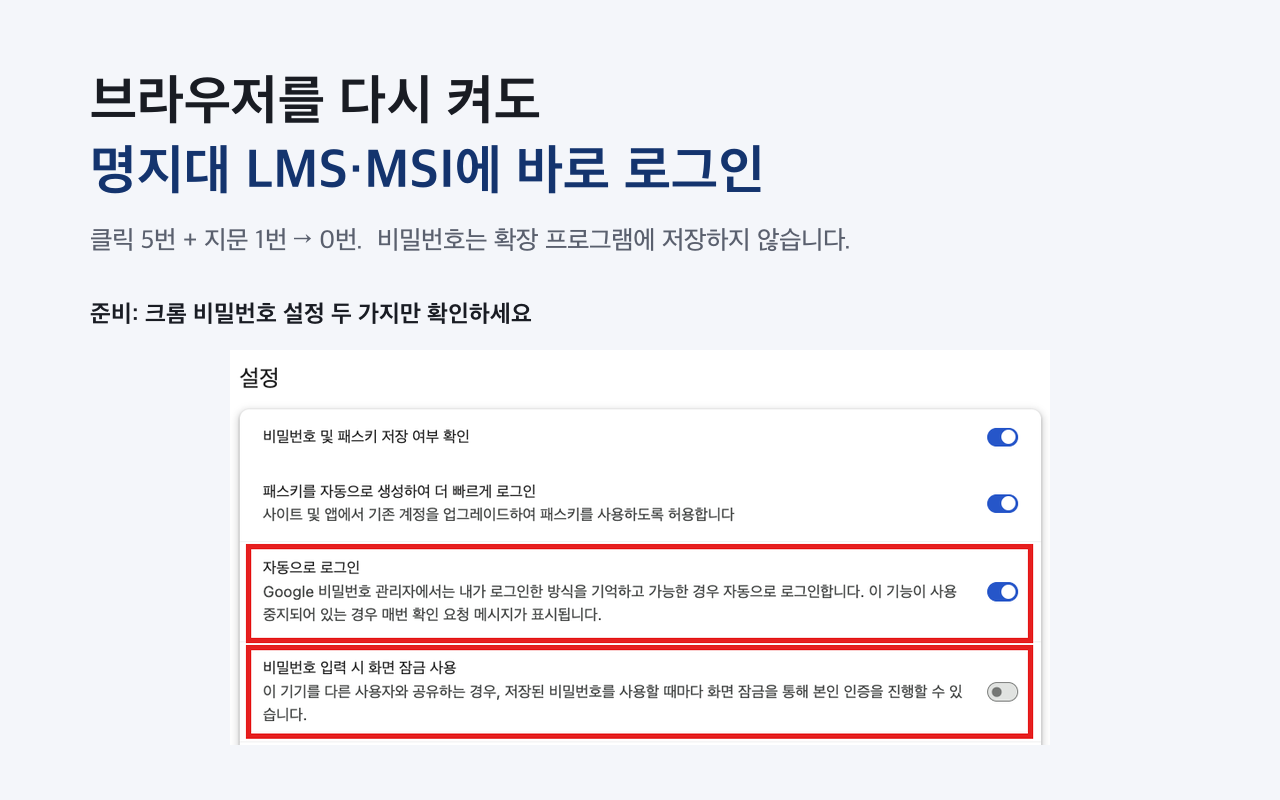
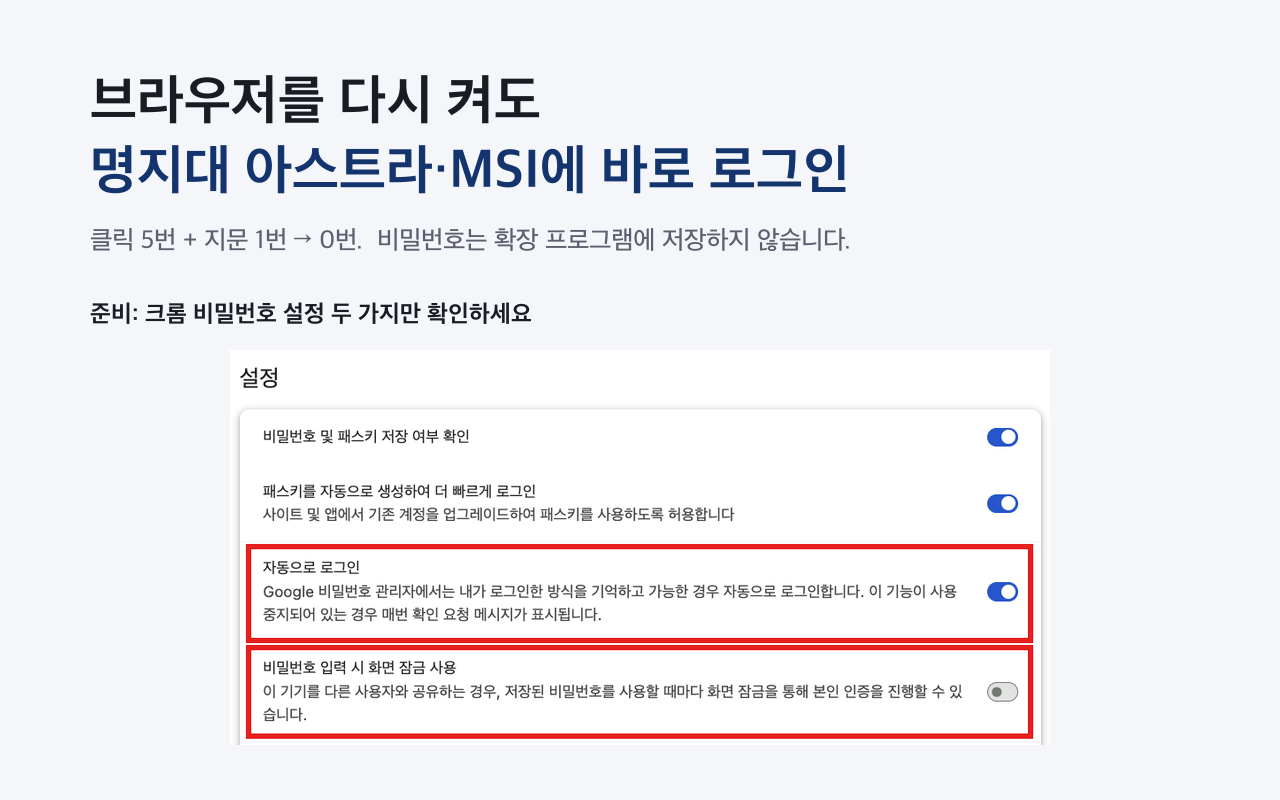
LMS 이름을 아스트라(LMS)로 변경
- README, manifest, 개인정보처리방침, 코드 주석의 LMS 표기를 아스트라로 변경
- 실패 안내줄 머리말을 [명지대 자동 로그인]으로 변경
- 스토어 캡처화면 문구 수정

Changed region(s): [[0.1875, 0.1875, 0.6875, 0.25]]

diff --git a/src/sso.js b/src/sso.js
@@ -49,7 +49,7 @@
     showBanner("자동 로그인이 실패해서 멈췄습니다. 비밀번호가 바뀌었다면 크롬에 저장된 비밀번호를 고친 뒤 다시 켜세요.", true);
     return;
   }
-  // 다른 명지대 사이트(LMS, MSI 등)에서 넘어온 로그인 화면일 때만 자동 로그인한다.
+  // 다른 명지대 사이트(아스트라(LMS), MSI 등)에서 넘어온 로그인 화면일 때만 자동 로그인한다.
   if (!params.get("client_id")) return;
 
   navigator.credentials
@@ -109,7 +109,7 @@
     banner.style.cssText =
       "position:fixed;top:0;left:0;right:0;z-index:2147483647;padding:12px 16px;" +
       "background:#b3261e;color:#fff;font:14px/1.4 sans-serif;text-align:center;";
-    banner.textContent = "[LMS 자동 로그인] " + text + " ";
+    banner.textContent = "[명지대 자동 로그인] " + text + " ";
     if (withResume) {
       const resume = document.createElement("button");
       resume.textContent = "자동 로그인 다시 켜기";

diff --git a/src/lms-session-alert.js b/src/lms-session-alert.js
@@ -1,4 +1,4 @@
-// 세션이 끊긴 LMS 페이지는 "접속이 종료 되었습니다" alert로 페이지를 멈춘다.
+// 세션이 끊긴 아스트라(LMS) 페이지는 "접속이 종료 되었습니다" alert로 페이지를 멈춘다.
 // 그 alert만 가로채서 로그인 화면으로 보낸다. 다른 alert는 그대로 띄운다.
 (() => {
   const originalAlert = window.alert;

diff --git a/src/lms-login-form.js b/src/lms-login-form.js
@@ -1,4 +1,4 @@
-// LMS 로그인 화면(= 로그아웃 상태)에 오면 SSO 로그인 흐름으로 보낸다.
+// 아스트라(LMS) 로그인 화면(= 로그아웃 상태)에 오면 SSO 로그인 흐름으로 보낸다.
 (() => {
   const KEY = "mjuAutoLoginRedirects";
   const WINDOW_MS = 60 * 1000;

diff --git a/README.md b/README.md
@@ -14,7 +14,7 @@
 
 </div>
 
-MJU Auto Login은 명지대학교 LMS, MSI 등 통합로그인(SSO)을 사용하는 사이트에 로그아웃 상태로 접속했을 때, 크롬에 저장된 계정으로 로그인 과정을 자동으로 진행하는 크롬 확장 프로그램입니다. 브라우저를 다시 열 때마다 반복하던 여러번의 클릭이 필요 없어집니다.
+MJU Auto Login은 명지대학교 아스트라(LMS), MSI 등 통합로그인(SSO)을 사용하는 사이트에 로그아웃 상태로 접속했을 때, 크롬에 저장된 계정으로 로그인 과정을 자동으로 진행하는 크롬 확장 프로그램입니다. 브라우저를 다시 열 때마다 반복하던 여러번의 클릭이 필요 없어집니다.
 
 ## 사용법
 
@@ -45,7 +45,7 @@ MJU Auto Login은 명지대학교 LMS, MSI 등 통합로그인(SSO)을 사용하
 2. 크롬 주소창에 `chrome://extensions`를 입력하고, 오른쪽 위의 **개발자 모드**를 켭니다.
 3. **압축해제된 확장 프로그램 로드**를 누르고, 압축을 푼 폴더를 선택합니다.
 
-설치가 끝나면 평소처럼 LMS나 MSI에 접속하시면 됩니다.
+설치가 끝나면 평소처럼 아스트라(LMS)나 MSI에 접속하시면 됩니다.
 
 ### 개인정보
 
@@ -57,16 +57,16 @@ MJU Auto Login은 명지대학교 LMS, MSI 등 통합로그인(SSO)을 사용하
 
 ### 처음 생각한 문제
 
-명지대 LMS는 브라우저를 닫았다가 다시 열면 항상 로그아웃되어 있습니다. 다시 접속하려면 "접속이 종료되었습니다"라는 알림을 닫고, 로그인 페이지로 이동해 저장된 계정을 고른 뒤 지문을 인증하고, 로그인 버튼을 누릅니다. 그러고 나면 매번 비밀번호 변경을 권하는 페이지가 나타나므로 취소 버튼까지 눌러야 비로소 LMS 메인에 도착합니다. 강의 하나를 보기 위해 매번 다섯 번의 클릭과 한 번의 지문 인증을 거쳐야 했습니다.
+명지대 아스트라(LMS)는 브라우저를 닫았다가 다시 열면 항상 로그아웃되어 있습니다. 다시 접속하려면 "접속이 종료되었습니다"라는 알림을 닫고, 로그인 페이지로 이동해 저장된 계정을 고른 뒤 지문을 인증하고, 로그인 버튼을 누릅니다. 그러고 나면 매번 비밀번호 변경을 권하는 페이지가 나타나므로 취소 버튼까지 눌러야 비로소 아스트라 메인에 도착합니다. 강의 하나를 보기 위해 매번 다섯 번의 클릭과 한 번의 지문 인증을 거쳐야 했습니다.
 
 <table>
 <tr>
 <td width="50%"><img src="docs/images/journey-1-alert.png" alt="1. 접속이 종료되었다는 알림에서 확인을 누른다"></td>
-<td width="50%"><img src="docs/images/journey-2-lms-login.png" alt="2. LMS 로그인 화면에서 통합로그인 서비스를 누른다"></td>
+<td width="50%"><img src="docs/images/journey-2-lms-login.png" alt="2. 아스트라 로그인 화면에서 통합로그인 서비스를 누른다"></td>
 </tr>
 <tr>
 <td align="center">① "접속이 종료되었습니다" 알림 닫기</td>
-<td align="center">② LMS 로그인 화면에서 통합로그인으로 이동</td>
+<td align="center">② 아스트라 로그인 화면에서 통합로그인으로 이동</td>
 </tr>
 <tr>
 <td width="50%"><img src="docs/images/journey-3-sso-login.png" alt="3. 통합로그인 화면에서 계정을 고르고 지문 인증 후 로그인을 누른다"></td>
@@ -82,11 +82,11 @@ MJU Auto Login은 명지대학교 LMS, MSI 등 통합로그인(SSO)을 사용하
 
 ### 조사하며 발견한 한계
 
-로그인이 왜 풀리는지 알기 위해 먼저 쿠키를 확인했습니다. LMS의 로그인 상태는 `JSESSIONID`라는 쿠키에 담기는데, 이 쿠키에는 만료 시각이 지정되어 있지 않았습니다. 만료 시각이 없는 쿠키는 세션 쿠키로 취급되어 브라우저가 종료될 때 함께 삭제됩니다. 같은 사이트의 언어 설정이나 통계용 쿠키는 2027년까지 만료일이 정해져 있었으므로, 로그인 쿠키만 의도적으로 브라우저를 닫으면 사라지게 만든 것으로 보입니다. 쿠키 이름으로 미루어 LMS는 자바 기반 서버(톰캣)에서 동작하고 있었습니다.
+로그인이 왜 풀리는지 알기 위해 먼저 쿠키를 확인했습니다. 아스트라의 로그인 상태는 `JSESSIONID`라는 쿠키에 담기는데, 이 쿠키에는 만료 시각이 지정되어 있지 않았습니다. 만료 시각이 없는 쿠키는 세션 쿠키로 취급되어 브라우저가 종료될 때 함께 삭제됩니다. 같은 사이트의 언어 설정이나 통계용 쿠키는 2027년까지 만료일이 정해져 있었으므로, 로그인 쿠키만 의도적으로 브라우저를 닫으면 사라지게 만든 것으로 보입니다. 쿠키 이름으로 미루어 아스트라는 자바 기반 서버(톰캣)에서 동작하고 있었습니다.
 
-![LMS 쿠키 목록: JSESSIONID만 만료가 Session이고 나머지는 2027년 (쿠키 값은 가림)](docs/images/lms-cookies.png)
+![아스트라 쿠키 목록: JSESSIONID만 만료가 Session이고 나머지는 2027년 (쿠키 값은 가림)](docs/images/lms-cookies.png)
 
-브라우저가 쿠키를 지우지 않도록 하면 해결될 것 같지만, 그것만으로는 충분하지 않습니다. 서버는 로그인한 사용자의 정보를 서버 쪽 세션에 보관하고, 일정 시간 동안 요청이 없으면 그 세션을 지웁니다. 톰캣의 기본 세션 타임아웃은 30분입니다. LMS의 실제 설정값은 측정하지 못했지만, 어떤 값이든 브라우저가 꺼져 있는 동안에는 서버에 요청을 보낼 수 없으므로 세션이 만료되는 것을 막을 수 없습니다. 쿠키가 남아 있더라도 그 쿠키가 가리키는 서버 세션이 이미 사라진 뒤라면 로그인은 풀립니다.
+브라우저가 쿠키를 지우지 않도록 하면 해결될 것 같지만, 그것만으로는 충분하지 않습니다. 서버는 로그인한 사용자의 정보를 서버 쪽 세션에 보관하고, 일정 시간 동안 요청이 없으면 그 세션을 지웁니다. 톰캣의 기본 세션 타임아웃은 30분입니다. 아스트라의 실제 설정값은 측정하지 못했지만, 어떤 값이든 브라우저가 꺼져 있는 동안에는 서버에 요청을 보낼 수 없으므로 세션이 만료되는 것을 막을 수 없습니다. 쿠키가 남아 있더라도 그 쿠키가 가리키는 서버 세션이 이미 사라진 뒤라면 로그인은 풀립니다.
 
 결국 로그인 상태를 유지하는 것은 클라이언트가 통제할 수 있는 영역이 아니었습니다.
 
@@ -96,7 +96,7 @@ MJU Auto Login은 명지대학교 LMS, MSI 등 통합로그인(SSO)을 사용하
 
 > 로그아웃 상태에서 사이트에 접속했을 때, 사람이 하던 재로그인 과정을 자동으로 수행해 원래 사이트로 돌려보낸다.
 
-이를 위해 실제 로그인 과정을 개발자도구의 네트워크 기록으로 분석했습니다. LMS는 로그인이 필요하면 사용자를 명지대 통합로그인 서버(`sso.mju.ac.kr`)로 보냅니다. 사용자가 그곳에서 아이디와 비밀번호를 제출하면 통합로그인 서버는 비밀번호 변경 안내 페이지를 거쳐, 일회용 코드를 붙여 사용자를 다시 LMS로 돌려보냅니다. LMS는 이 코드를 확인한 뒤 새 세션을 발급합니다. 이는 OAuth 2.0의 인가 코드 방식과 같은 구조입니다. 또한 비밀번호는 로그인 페이지의 스크립트가 제출 직전에 브라우저에서 암호화해 전송하고 있었습니다.
+이를 위해 실제 로그인 과정을 개발자도구의 네트워크 기록으로 분석했습니다. 아스트라는 로그인이 필요하면 사용자를 명지대 통합로그인 서버(`sso.mju.ac.kr`)로 보냅니다. 사용자가 그곳에서 아이디와 비밀번호를 제출하면 통합로그인 서버는 비밀번호 변경 안내 페이지를 거쳐, 일회용 코드를 붙여 사용자를 다시 아스트라로 돌려보냅니다. 아스트라는 이 코드를 확인한 뒤 새 세션을 발급합니다. 이는 OAuth 2.0의 인가 코드 방식과 같은 구조입니다. 또한 비밀번호는 로그인 페이지의 스크립트가 제출 직전에 브라우저에서 암호화해 전송하고 있었습니다.
 
 이 흐름에서 사람이 개입하는 지점은 로그인 페이지로 이동하는 것, 아이디와 비밀번호를 입력해 제출하는 것, 비밀번호 변경 안내를 취소하는 것의 세 곳입니다. 이 중 페이지 이동과 취소는 정해진 주소로 이동하기만 하면 되므로 어렵지 않습니다. 남은 문제는 단 하나, **자동으로 입력할 비밀번호를 어디서 가져올 것인가**였습니다.
 
@@ -132,9 +132,9 @@ navigator.credentials.get({ password: true, mediation: "silent" })
 
 ### 결과와 한계
 
-브라우저를 완전히 종료했다가 다시 연 상태에서 LMS와 MSI 모두 자동으로 로그인되는 것을 확인했습니다. 재로그인에 필요하던 다섯 번의 클릭과 한 번의 지문 인증은 모두 없어졌습니다. MSI는 따로 처리하지 않았지만, 같은 통합로그인 서버를 사용하므로 같은 방식으로 동작했습니다.
+브라우저를 완전히 종료했다가 다시 연 상태에서 아스트라와 MSI 모두 자동으로 로그인되는 것을 확인했습니다. 재로그인에 필요하던 다섯 번의 클릭과 한 번의 지문 인증은 모두 없어졌습니다. MSI는 따로 처리하지 않았지만, 같은 통합로그인 서버를 사용하므로 같은 방식으로 동작했습니다.
 
-한계도 남아 있습니다. 앞서 설명한 대로 크롬의 화면 잠금을 꺼야 하며, LMS에서 직접 로그아웃하더라도 곧바로 다시 로그인됩니다. 명지대가 2단계 인증을 도입하는 등 로그인 방식을 크게 바꾸면 확장 프로그램도 수정해야 합니다.
+한계도 남아 있습니다. 앞서 설명한 대로 크롬의 화면 잠금을 꺼야 하며, 아스트라에서 직접 로그아웃하더라도 곧바로 다시 로그인됩니다. 명지대가 2단계 인증을 도입하는 등 로그인 방식을 크게 바꾸면 확장 프로그램도 수정해야 합니다.
 
 ---
 

diff --git a/PRIVACY.md b/PRIVACY.md
@@ -6,7 +6,7 @@ MJU Auto Login(이하 "확장 프로그램")은 명지대학교 통합로그인(
 
 확장 프로그램은 명지대 통합로그인 페이지(`sso.mju.ac.kr`)의 로그인 화면이 열렸을 때, 크롬 비밀번호 관리자에 해당 사이트용으로 저장된 아이디와 비밀번호를 웹 표준인 Credential Management API를 통해 받습니다. 받은 아이디와 비밀번호는 그 페이지의 입력칸에 채워 로그인하는 데에만 사용합니다.
 
-또한 로그인 실패 시 반복 시도를 막기 위해, 마지막으로 자동 로그인을 시도한 시각과 실패 여부를 통합로그인 페이지의 브라우저 저장소(`localStorage`)에 기록합니다. LMS에서는 같은 목적으로 최근 이동 시각을 탭 단위 저장소(`sessionStorage`)에 기록합니다. 이 기록에는 아이디나 비밀번호가 포함되지 않습니다.
+또한 로그인 실패 시 반복 시도를 막기 위해, 마지막으로 자동 로그인을 시도한 시각과 실패 여부를 통합로그인 페이지의 브라우저 저장소(`localStorage`)에 기록합니다. 아스트라(LMS, `lms.mju.ac.kr`)에서는 같은 목적으로 최근 이동 시각을 탭 단위 저장소(`sessionStorage`)에 기록합니다. 이 기록에는 아이디나 비밀번호가 포함되지 않습니다.
 
 ## 저장하지 않는 정보
 
